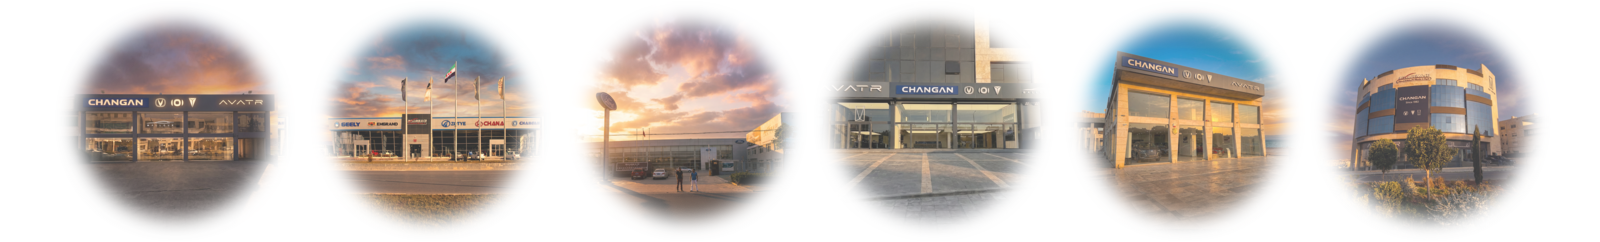
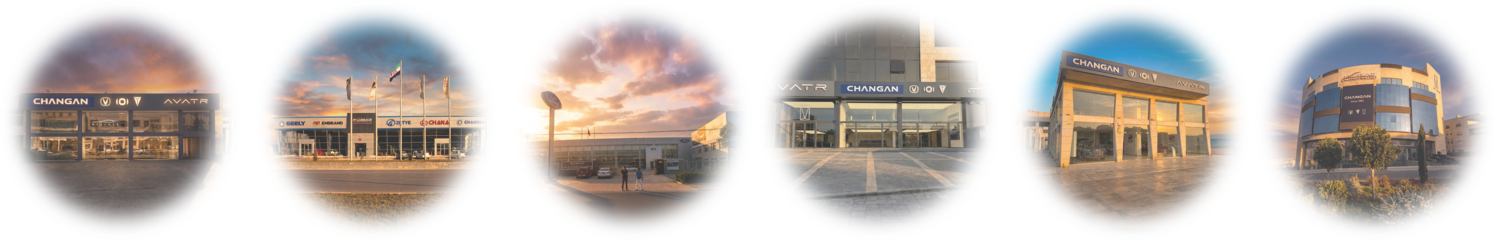
Trim transparent margins off the 15 listed PNGs (real ~3× scale-up)
The reason the listed PNGs kept looking small even after layout fixes:
they had massive transparent padding around the actual content. With
object-fit: contain the renderer treats the whole 1600×365 frame as
the image, so the visible content is only ~40% of what reaches the
screen.

Trimmed via `convert -trim +repage` on each:
  png1-5, png1-6, png1-8, png2-6, png3-1, png3-6, png3-7
    1600 wide → ~678 wide  (was 60% transparent padding!)
  png1-3, png2-1..2-4, png3-2, png3-3
    1600 wide → ~1362-1530 (15-25% trimmed)
  png1-7
    already tight, unchanged

Re-quantised through pngquant. Net total in assets/images: still 12 MB.

The actual visible content is now ~2-3x larger inside the same wrapper
box (which is itself already 96vw / 60vh-min for .stage-big-image). No
CSS change needed — the trim alone produces the upscale.

stage-centered-text + stage-big-image classes already wired correctly:
slide 1.1 (Main Entry / MALLOUK GROUP) and 3.5 (Healthcare Expansion)
get justify-content: center !important so their text sits in the
middle of the viewport on desktop. Mobile already centres all stages
via the media query.

Build stamp: "build trimmed v35".

diff --git a/index.html b/index.html
@@ -569,7 +569,7 @@
   <div class="slide-counter">01 / 32</div>
   <div class="scroll-hint">scroll into Mallouk's universe</div>
   <button type="button" class="back-to-menu" aria-label="Back to crystal menu">← Crystals</button>
-  <div class="build-stamp">build pass-through v34</div>
+  <div class="build-stamp">build trimmed v35</div>
 
   <script>
     // ---------- 3D Starfield + Nebula (Three.js) — unchanged ----------
